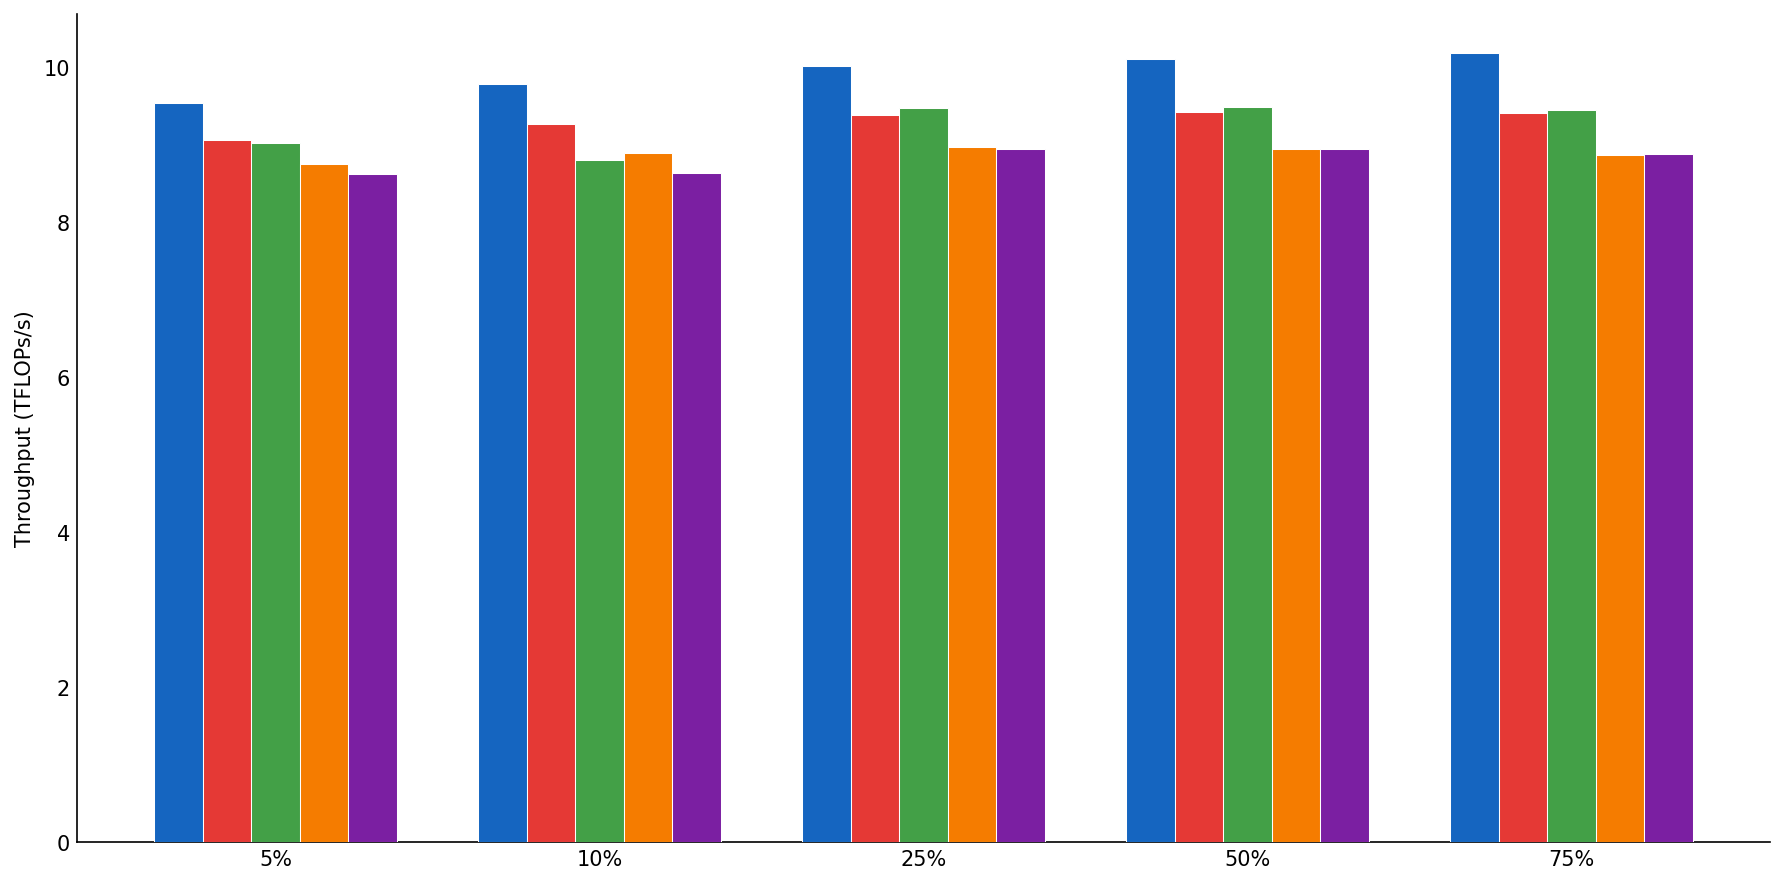
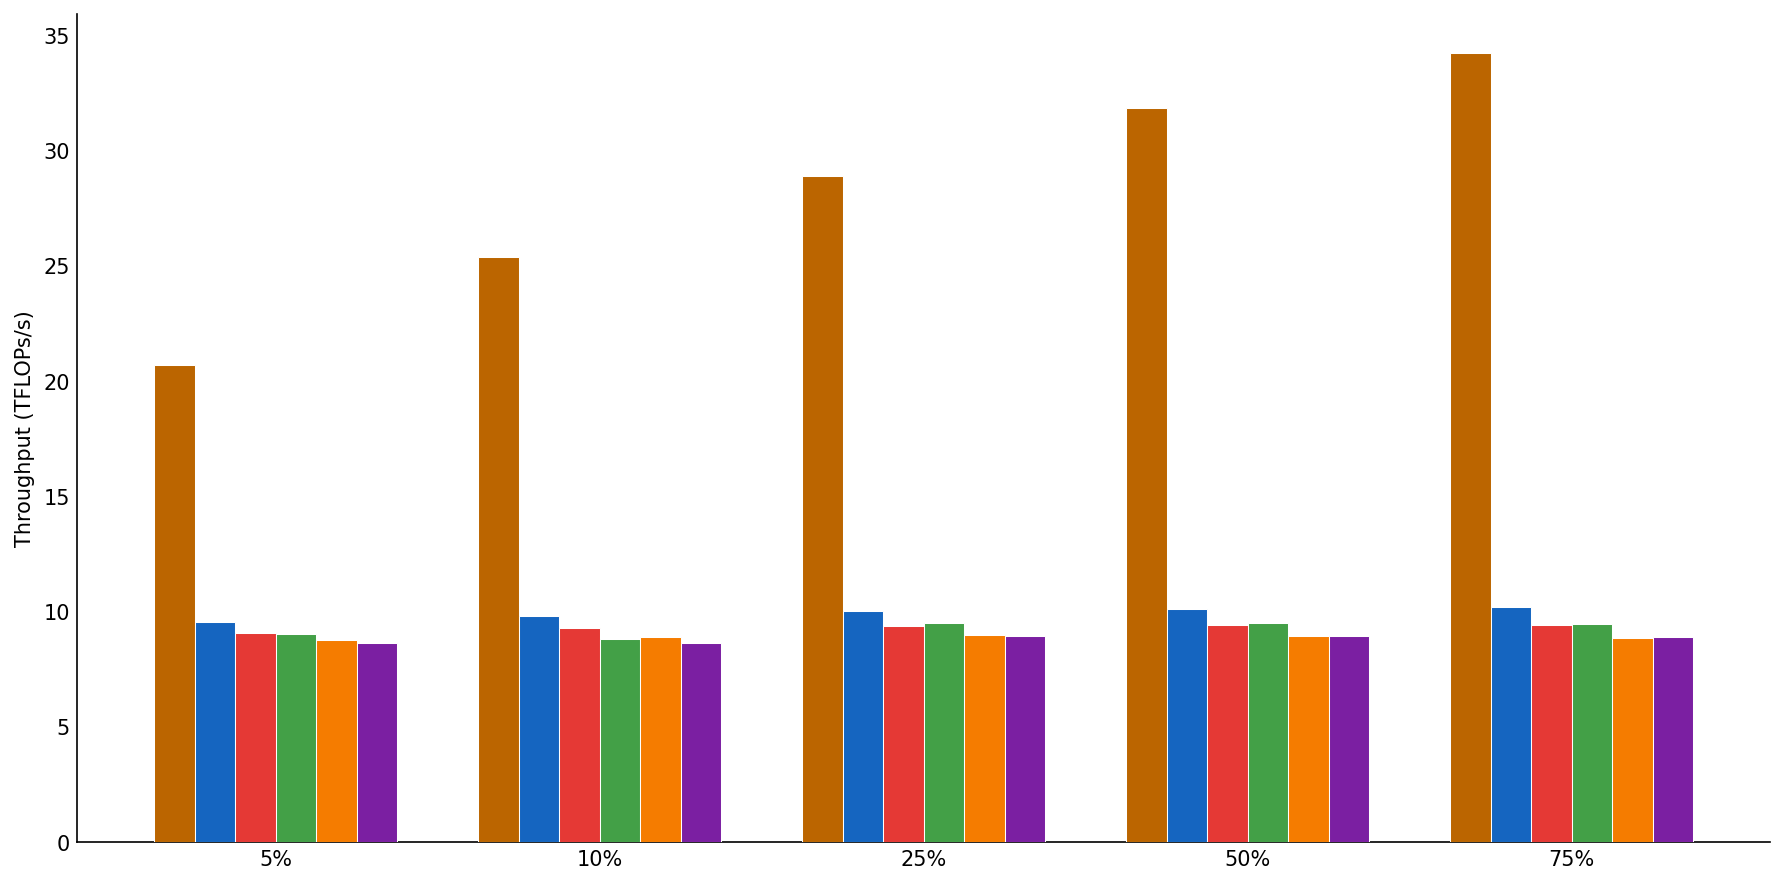
First: got GEMM profiling properly up and verified

diff --git a/spmm_scripts/plot_profiling_plan.py b/spmm_scripts/plot_profiling_plan.py
@@ -1354,6 +1354,157 @@ def make_figure16(data_dir: Path, out_dir: Path, clean: bool = False) -> None:
     print(f"Saved {out}")
 
 
+# ── Figure 17: Fig 16 + cuSPARSE (4090) as 7th algorithm ─────────────────────
+
+CUSPARSE_CSV = Path("spmm_scripts/cusparse4090.csv")
+
+# Registry ID → density string (matches _FIG16_PANELS ordering)
+_CUSPARSE_REG_DENSITY = {8: "25%", 9: "10%", 10: "5%", 11: "50%"}
+
+
+def _parse_cusparse_pattern(case_name: str) -> str | None:
+    """Extract sparsity pattern from a cuSPARSE case name, skipping bare 'diag'."""
+    m = re.match(r"parametric_(?:(multi_diag|col|row)_)?M", case_name)
+    if not m:
+        # Check if it's bare diag — skip it
+        if re.match(r"parametric_diag_", case_name):
+            return None
+        return None
+    return m.group(1) or "random"
+
+
+def load_cusparse(csv_path: Path) -> pd.DataFrame:
+    """
+    Load cuSPARSE benchmark CSV.
+    Columns: registry_id, case_name, M, N, K, R, C, ms, tflops_avg, tflops_max, gbs_avg, gbs_max
+    Returns DataFrame with columns: pattern, density, tflops (avg TFLOPs/s).
+    Bare 'diag' cases are excluded.
+    """
+    rows = []
+    try:
+        with open(csv_path) as f:
+            for line in f:
+                parts = line.strip().split(",")
+                if len(parts) < 12:
+                    continue
+                reg_id = int(parts[0])
+                case_name = parts[1]
+                density = _CUSPARSE_REG_DENSITY.get(reg_id)
+                if density is None:
+                    continue
+                pattern = _parse_cusparse_pattern(case_name)
+                if pattern is None:
+                    continue
+                rows.append({
+                    "pattern": pattern,
+                    "density": density,
+                    "tflops": float(parts[8]),
+                })
+    except FileNotFoundError:
+        pass
+    return pd.DataFrame(rows)
+
+
+CUSPARSE_ALGO = "cusparse_4090"
+CUSPARSE_LABEL = "cuSPARSE (4090)"
+CUSPARSE_COLOR = "#212121"
+
+
+def make_figure17(data_dir: Path, out_dir: Path, cusparse_csv: Path = CUSPARSE_CSV,
+                  clean: bool = False) -> None:
+    """
+    Figure 17: Same as fig 16 but with cuSPARSE (4090) added as a 7th algorithm.
+    """
+    cusparse_df = load_cusparse(cusparse_csv)
+    if cusparse_df.empty:
+        print("WARNING: No cuSPARSE data found. Skipping Figure 17.")
+        return
+
+    all_algos = ALGOS + [CUSPARSE_ALGO]
+    all_labels = {**ALGO_LABEL, CUSPARSE_ALGO: CUSPARSE_LABEL}
+    all_colors = {**ALGO_COLOR, CUSPARSE_ALGO: CUSPARSE_COLOR}
+
+    fig, axes = plt.subplots(2, 2, figsize=(18, 10), sharey=True)
+
+    for ax, (registry, density_label) in zip(axes.flat, _FIG16_PANELS):
+        df = load_sweep_sparsity_pattern(data_dir, registry)
+        # Merge cuSPARSE data for this density
+        cuda_sub = cusparse_df[cusparse_df["density"] == density_label].copy()
+        if not cuda_sub.empty:
+            cuda_sub["algo"] = CUSPARSE_ALGO
+            if not df.empty:
+                df = pd.concat([df, cuda_sub[["algo", "pattern", "tflops"]]],
+                               ignore_index=True)
+            else:
+                df = cuda_sub[["algo", "pattern", "tflops"]].copy()
+
+        if df.empty:
+            ax.set_title(f"Density = {density_label} (no data)")
+            continue
+
+        patterns = [p for p in _SPARSITY_PATTERN_ORDER if p in df["pattern"].values]
+        algos_present = [a for a in all_algos if a in df["algo"].values]
+        n_patterns = len(patterns)
+        x = np.arange(len(algos_present))
+        total_bar_width = 0.75
+        bar_w = total_bar_width / max(n_patterns, 1)
+
+        for j, pat in enumerate(patterns):
+            ys = []
+            for algo in algos_present:
+                row = df[(df["algo"] == algo) & (df["pattern"] == pat)]
+                ys.append(row["tflops"].iloc[0] if not row.empty else 0)
+            offset = (j - (n_patterns - 1) / 2) * bar_w
+            bars = ax.bar(x + offset, ys, bar_w,
+                          label=_SPARSITY_PATTERN_LABELS.get(pat, pat),
+                          color=_PATTERN_COLOR[pat],
+                          edgecolor="white", linewidth=0.5, zorder=3)
+            if not clean:
+                for bar in bars:
+                    h = bar.get_height()
+                    if h > 0:
+                        ax.text(bar.get_x() + bar.get_width() / 2, h + 0.002,
+                                f"{h:.3f}", ha="left", va="bottom",
+                                fontsize=5.5, rotation=45)
+
+        ax.set_xticks(x)
+        ax.set_xticklabels([all_labels[a] for a in algos_present],
+                           fontsize=7, rotation=20, ha="right")
+        if not clean:
+            ax.set_title(f"Density = {density_label}", fontweight="bold")
+            ax.grid(axis="y", alpha=0.25)
+            ax.set_axisbelow(True)
+        else:
+            ax.set_title(f"Density = {density_label}")
+            ax.tick_params(axis="both", length=0)
+
+    # Shared y-axis: start at 0, with headroom for value labels
+    global_max = max(ax.get_ylim()[1] for ax in axes.flat)
+    axes.flat[0].set_ylim(0, global_max * 1.12)
+
+    # Common y-label on the left subplots
+    for ax in axes[:, 0]:
+        ax.set_ylabel("Throughput (TFLOPs/s)")
+
+    # Single shared legend at the top
+    handles, labels = axes.flat[0].get_legend_handles_labels()
+    if not clean:
+        fig.legend(handles, labels, loc="upper center", ncol=len(labels),
+                   fontsize=9, frameon=False, bbox_to_anchor=(0.5, 1.0))
+        fig.suptitle(
+            "SpMM Throughput vs. Sparsity Pattern — TT vs cuSPARSE (4090)\n"
+            "8192x8192x8192, R=C=256",
+            fontsize=13, fontweight="bold", y=1.04,
+        )
+
+    fig.tight_layout()
+    suffix = "_clean" if clean else ""
+    out = out_dir / f"fig17_sparsity_pattern_vs_cuda{suffix}.png"
+    fig.savefig(out, bbox_inches="tight", dpi=150)
+    plt.close(fig)
+    print(f"Saved {out}")
+
+
 # ── Figure 12: Throughput across densities (bar chart like fig 11) ────────────
 
 DENSITY_SWEEP_DATA_DIR = Path("/home/user/tt-metal/profiles_opt_noc_full_profiling_suite/csvs")
@@ -1472,6 +1623,7 @@ def main() -> None:
     make_figure14(args.data_dir, args.out_dir)
     make_figure15(args.data_dir, args.out_dir)
     make_figure16(args.data_dir, args.out_dir)
+    make_figure17(args.data_dir, args.out_dir)
     clean_dir = args.out_dir / "clean"
     clean_dir.mkdir(parents=True, exist_ok=True)
     make_figure1(args.data_dir, clean_dir, clean=True)
@@ -1488,6 +1640,7 @@ def main() -> None:
     make_figure14(args.data_dir, clean_dir, clean=True)
     make_figure15(args.data_dir, clean_dir, clean=True)
     make_figure16(args.data_dir, clean_dir, clean=True)
+    make_figure17(args.data_dir, clean_dir, clean=True)
 
 
 if __name__ == "__main__":

diff --git a/GEMM_profiling/plot_sweep.py b/GEMM_profiling/plot_sweep.py
@@ -1,0 +1,82 @@
+#!/usr/bin/env python3
+"""Plot TFLOP/s and GB/s from sweep.sh CSV output.
+
+Usage:
+    python GEMM_profiling/plot_sweep.py                              # uses default CSV path
+    python GEMM_profiling/plot_sweep.py GEMM_profiling/sweep_results.csv
+    python GEMM_profiling/plot_sweep.py results.csv -o my_plot.png
+"""
+
+import argparse
+import csv
+import sys
+
+import matplotlib.pyplot as plt
+
+
+def main():
+    parser = argparse.ArgumentParser(description="Plot GEMM sweep results")
+    parser.add_argument("csv_file", nargs="?", default="GEMM_profiling/sweep_results.csv",
+                        help="Path to sweep_results.csv")
+    parser.add_argument("-o", "--output-dir", default="GEMM_profiling",
+                        help="Output directory for plots (default: GEMM_profiling)")
+    args = parser.parse_args()
+
+    # Read CSV
+    sizes, avg_tflops, max_tflops, avg_gbs, max_gbs = [], [], [], [], []
+    with open(args.csv_file) as f:
+        reader = csv.DictReader(f)
+        for row in reader:
+            sizes.append(int(row["N"]))
+            avg_tflops.append(float(row["Avg_TFLOPs"]))
+            max_tflops.append(float(row["Max_TFLOPs"]))
+            avg_gbs.append(float(row["Avg_GBs"]))
+            max_gbs.append(float(row["Max_GBs"]))
+
+    if not sizes:
+        print("No data found in CSV.", file=sys.stderr)
+        sys.exit(1)
+
+    size_labels = [str(n) for n in sizes]
+
+    # TFLOP/s plot
+    fig1, ax1 = plt.subplots(figsize=(8, 5))
+    ax1.plot(size_labels, avg_tflops, "o-", label="Avg TFLOP/s", color="tab:blue", linewidth=2)
+    ax1.plot(size_labels, max_tflops, "s--", label="Max TFLOP/s", color="tab:cyan", linewidth=2)
+    ax1.set_xlabel("Matrix Size (M=K=N)")
+    ax1.set_ylabel("TFLOP/s")
+    ax1.set_title("GEMM Throughput (TFLOP/s)")
+    ax1.legend()
+    ax1.grid(True, alpha=0.3)
+    for i, (a, m) in enumerate(zip(avg_tflops, max_tflops)):
+        ax1.annotate(f"{a:.1f}", (size_labels[i], a), textcoords="offset points",
+                     xytext=(0, 10), ha="center", fontsize=8)
+        ax1.annotate(f"{m:.1f}", (size_labels[i], m), textcoords="offset points",
+                     xytext=(0, -15), ha="center", fontsize=8)
+    fig1.tight_layout()
+    tflops_path = f"{args.output_dir}/sweep_tflops.png"
+    fig1.savefig(tflops_path, dpi=150)
+    print(f"TFLOP/s plot saved to {tflops_path}")
+
+    # GB/s plot
+    fig2, ax2 = plt.subplots(figsize=(8, 5))
+    ax2.plot(size_labels, avg_gbs, "o-", label="Avg GB/s", color="tab:orange", linewidth=2)
+    ax2.plot(size_labels, max_gbs, "s--", label="Max GB/s", color="tab:red", linewidth=2)
+    ax2.set_xlabel("Matrix Size (M=K=N)")
+    ax2.set_ylabel("GB/s")
+    ax2.set_title("GEMM Bandwidth (GB/s)")
+    ax2.legend()
+    ax2.grid(True, alpha=0.3)
+    for i, (a, m) in enumerate(zip(avg_gbs, max_gbs)):
+        ax2.annotate(f"{a:.0f}", (size_labels[i], a), textcoords="offset points",
+                     xytext=(0, 10), ha="center", fontsize=8)
+        ax2.annotate(f"{m:.0f}", (size_labels[i], m), textcoords="offset points",
+                     xytext=(0, -15), ha="center", fontsize=8)
+    fig2.tight_layout()
+    gbs_path = f"{args.output_dir}/sweep_gbs.png"
+    fig2.savefig(gbs_path, dpi=150)
+    print(f"GB/s plot saved to {gbs_path}")
+
+
+if __name__ == "__main__":
+    main()

diff --git a/GEMM_profiling/run_minimal_matmul.py b/GEMM_profiling/run_minimal_matmul.py
@@ -152,6 +152,10 @@ def run_minimal_matmul(
 
     # Report results
     total_flops = 2 * M * N * K
+    # Data movement: read A (M*K) + read B (K*N) + write C (M*N), bfloat16 = 2 bytes
+    dtype_bytes = {ttnn.bfloat16: 2, ttnn.bfloat8_b: 1, ttnn.bfloat4_b: 0.5}
+    elem_size = dtype_bytes.get(dtype, 2)
+    total_bytes = (M * K + K * N + M * N) * elem_size
     print(f"\n  Results:")
     print(f"    PCC:            {pcc:.7f}")
     print(f"    Relative RMSE:  {rel_rmse:.6f}")
@@ -163,14 +167,18 @@ def run_minimal_matmul(
         print(f"    Min device:     {min_dur*1000:.2f} ms")
         print(f"    Avg TFLOP/s:    {total_flops / avg_dur / 1e12:.2f}")
         print(f"    Max TFLOP/s:   {total_flops / min_dur / 1e12:.2f}")
+        print(f"    Avg GB/s:       {total_bytes / avg_dur / 1e9:.2f}")
+        print(f"    Max GB/s:      {total_bytes / min_dur / 1e9:.2f}")
     elif num_iterations == 1:
         print(f"    Host duration:  {durations[0]*1000:.2f} ms")
         print(f"    TFLOP/s:        {total_flops / durations[0] / 1e12:.2f}")
+        print(f"    GB/s:           {total_bytes / durations[0] / 1e9:.2f}")
     else:
         print(f"    First iter:     {durations[0]*1000:.2f} ms (includes compile)")
         avg_cached = sum(durations[1:]) / (num_iterations - 1)
         print(f"    Avg cached:     {avg_cached*1000:.2f} ms ({num_iterations} iters)")
         print(f"    Avg TFLOP/s:    {total_flops / avg_cached / 1e12:.2f}")
+        print(f"    Avg GB/s:       {total_bytes / avg_cached / 1e9:.2f}")
 
     return {"pcc": pcc, "relative_rmse": rel_rmse, "durations": durations}
 

diff --git a/tests/ttnn/unit_tests/benchmarks/test_benchmark.py b/tests/ttnn/unit_tests/benchmarks/test_benchmark.py
@@ -207,7 +207,7 @@ matmul_configs = [
 ]
 
 
-@pytest.mark.skip(reason="Benchmark is not intended to be run as part of CI and can be manually run locally")
+# @pytest.mark.skip(reason="Benchmark is not intended to be run as part of CI and can be manually run locally")
 @pytest.mark.parametrize("device_params", [{"l1_small_size": 24576, "trace_region_size": 3855488}], indirect=True)
 @pytest.mark.parametrize("tile_h", [32])
 @pytest.mark.parametrize("tile_w", [32])
